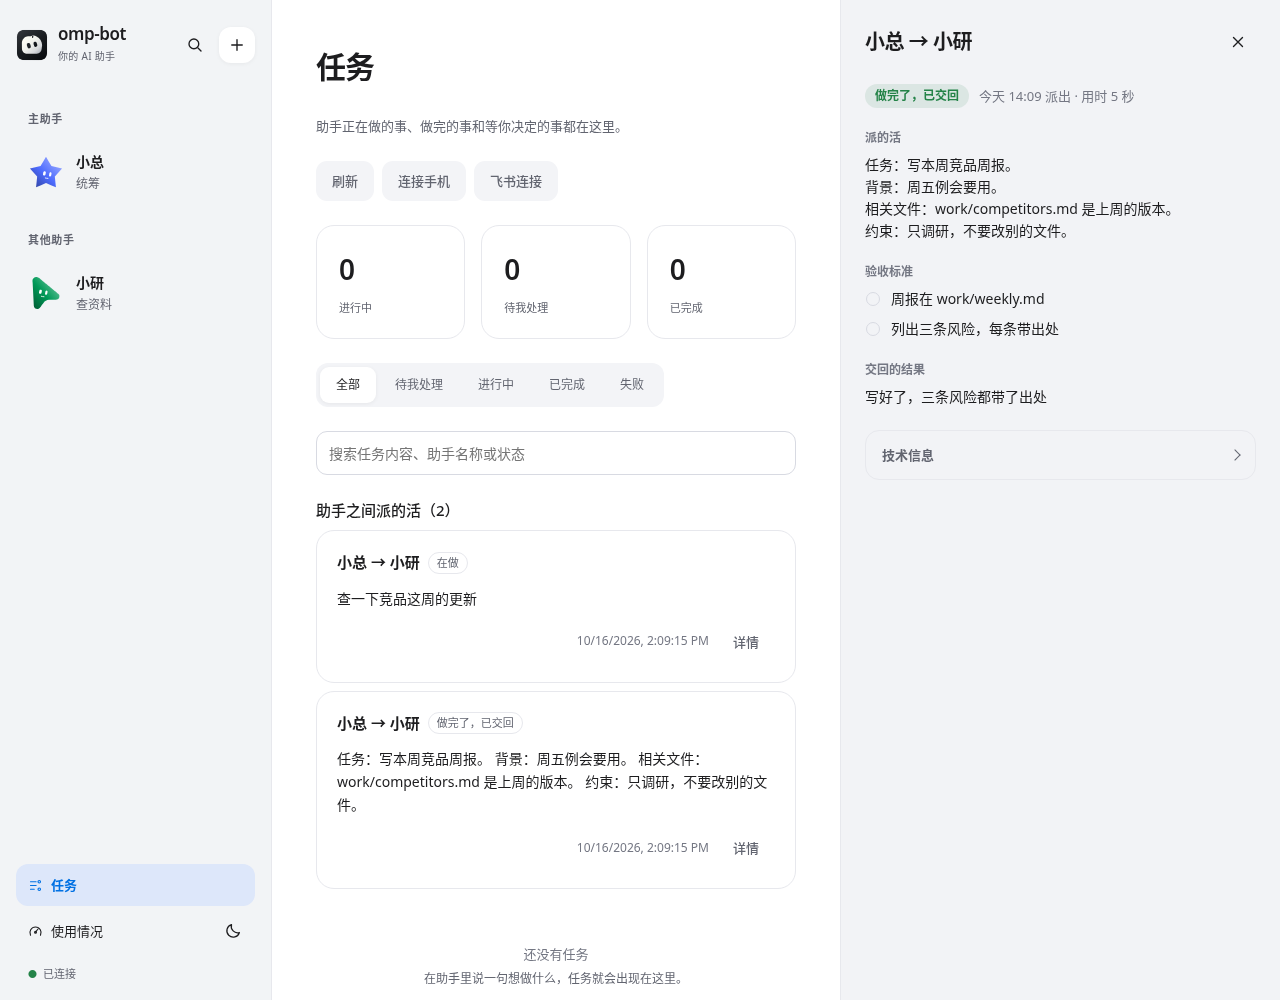
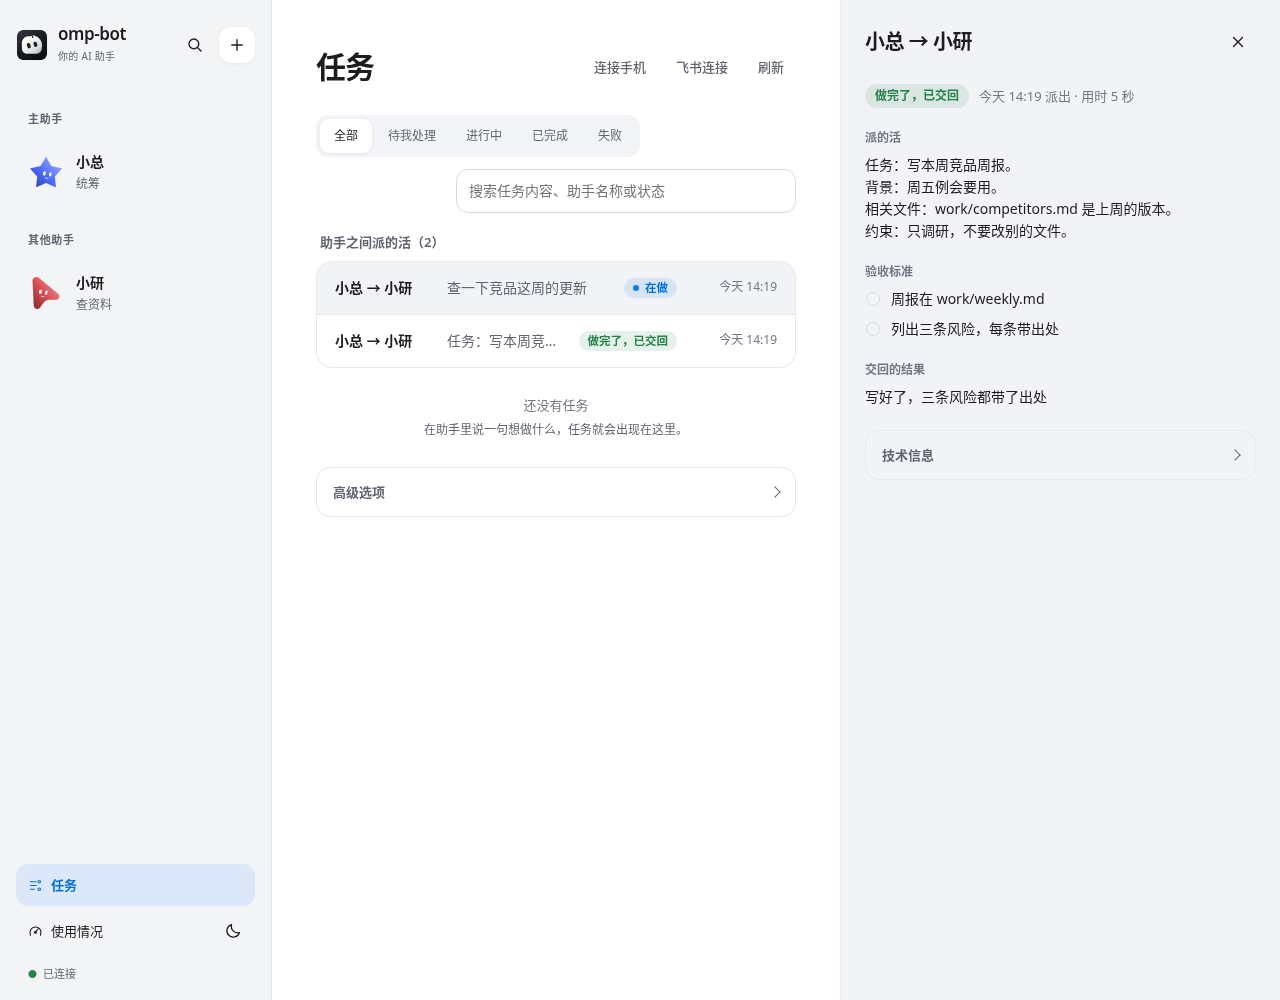
ui 3: 任务页（页签带数量和搜索同一行，任务改成一张卡里的紧凑行，整行可点，去掉大数字卡和说明；行为检查 13/13，变异 4/4）

diff --git a/web/workbench-panels.js b/web/workbench-panels.js
@@ -184,51 +184,46 @@ export function createPanels({ client, deps }) {
     const root = el("section", "wb-activity-view");
     const head = el("div", "wb-view-head");
     head.append(el("h1", null, "任务"));
-    root.append(head);
-    root.append(el("p", "ui-intro", "助手正在做的事、做完的事和等你决定的事都在这里。"));
-
     const toolbar = el("div", "ui-toolbar");
-    toolbar.append(button("btn ghost", "刷新", () => void draw()));
     toolbar.append(button("btn ghost", "连接手机", () => deps.openDrawer("连接手机", () => pairingSection())));
     toolbar.append(button("btn ghost", "飞书连接", () => deps.openDrawer("飞书连接", () => feishuSection())));
-    root.append(toolbar);
+    toolbar.append(button("btn ghost", "刷新", () => void draw()));
+    head.append(toolbar);
+    root.append(head);
 
     let filter = "all";
     let query = "";
 
-    // 计数直接复用页签的筛选规则，页签和数字不会对不上。
-    const metrics = el("div", "ui-metrics");
-    const metricValues = new Map();
-    for (const id of ["active", "attention", "completed"]) {
-      const [, label] = FILTERS.find(([filterId]) => filterId === id);
-      const metric = el("div", "ui-metric");
-      metric.dataset.metric = id;
-      const value = el("span", "ui-metric-value", "0");
-      metric.append(value, el("span", "ui-metric-label", label));
-      metricValues.set(id, value);
-      metrics.append(metric);
-    }
-    root.append(metrics);
-
+    // 页签上直接带数量，计数复用页签的筛选规则，数字和列表不会对不上。
+    const bar = el("div", "wb-task-bar");
     const tabs = el("div", "bt-tabs wb-tabs");
+    tabs.setAttribute("role", "tablist");
     const tabButtons = new Map();
+    const metricValues = new Map();
     for (const [id, label] of FILTERS) {
       const tab = button("bt-tab", label, () => { filter = id; paint(); });
       tab.setAttribute("role", "tab");
       tab.dataset.filter = id;
+      if (id !== "all") {
+        const count = el("span", "wb-tab-count", "0");
+        count.dataset.metric = id;
+        tab.append(count);
+        metricValues.set(id, count);
+      }
       tabButtons.set(id, tab);
       tabs.append(tab);
     }
-    root.append(tabs);
+    bar.append(tabs);
 
     const search = el("input", "bt-input wb-search");
     search.type = "search";
     search.placeholder = "搜索任务内容、助手名称或状态";
     search.setAttribute("aria-label", "搜索任务");
     search.oninput = () => { query = search.value.trim(); paint(); };
-    root.append(search);
+    bar.append(search);
+    root.append(bar);
 
-    const list = el("div", "wb-run-list");
+    const list = el("div", "wb-run-list wb-row-group");
     const approvals = el("div", "wb-approval-list");
     const empty = el("div", "bt-empty hidden");
     const emptyTitle = el("div", null, "还没有任务");
@@ -348,24 +343,18 @@ export function createPanels({ client, deps }) {
       delegationBox.classList.toggle("hidden", delegations.length === 0);
       if (!delegations.length) return;
       delegationBox.append(el("div", "wb-dock-label", `助手之间派的活（${delegations.length}）`));
-      for (const rec of delegations) delegationBox.append(delegationTile(rec));
+      const group = el("div", "wb-row-group");
+      for (const rec of delegations) group.append(delegationTile(rec));
+      delegationBox.append(group);
     }
 
     function delegationTile(rec) {
-      const tile = el("div", "wb-run-tile");
+      const who = `${rec.fromName || rec.fromBotId} → ${rec.targetName || rec.targetBotId}`;
+      const status = delegationStatus(rec);
+      const tile = compactRow({ who, text: rec.message, label: status.label, tone: delegationTone(rec), at: rec.createdAt },
+        () => void deps.openDrawer(who, () => delegationDetail(rec)));
       tile.dataset.delegationId = rec.id;
-      tile.dataset.state = delegationStatus(rec).key;
-      const top = el("div", "wb-run-top");
-      top.append(el("span", "wb-run-bot", `${rec.fromName || rec.fromBotId} → ${rec.targetName || rec.targetBotId}`));
-      top.append(el("span", "bt-state wb-run-state", delegationStatus(rec).label));
-      tile.append(top);
-      tile.append(el("div", "wb-run-text", String(rec.message || "").slice(0, 240) || "（没有内容）"));
-      const foot = el("div", "wb-run-foot");
-      foot.append(el("span", "wb-run-time", fmtTime(rec.createdAt)));
-      const actions = el("div", "bt-actions");
-      actions.append(button("btn ghost", "详情", () => void deps.openDrawer(`${rec.fromName || rec.fromBotId} → ${rec.targetName || rec.targetBotId}`, () => delegationDetail(rec))));
-      foot.append(actions);
-      tile.append(foot);
+      tile.dataset.state = status.key;
       return tile;
     }
 
@@ -408,7 +397,9 @@ export function createPanels({ client, deps }) {
       const all = client.all();
       for (const [id, value] of metricValues) {
         const predicate = FILTERS.find(([filterId]) => filterId === id)[2];
-        value.textContent = String(all.filter(predicate).length);
+        const n = all.filter(predicate).length;
+        value.textContent = String(n);
+        value.classList.toggle("is-zero", n === 0);
       }
       paintApprovals();
       const predicate = FILTERS.find(([id]) => id === filter)[2];
@@ -423,27 +414,35 @@ export function createPanels({ client, deps }) {
       announce(`${runs.length} 个任务`);
     }
 
+    /** 列表里的一行：谁、做什么、状态、时间。整行是一个按钮，点开详情。 */
+    function compactRow({ who, text, label, tone, at }, open) {
+      const tile = el("div", "wb-run-tile wb-row");
+      const main = el("button", "wb-row-main");
+      main.type = "button";
+      main.onclick = open;
+      const pill = el("span", "wb-pill wb-run-state", label);
+      pill.dataset.tone = tone;
+      main.append(
+        el("span", "wb-run-bot", who),
+        el("span", "wb-run-text", String(text || "").replace(/\s+/g, " ").trim().slice(0, 240) || "（没有内容）"),
+        pill,
+        el("span", "wb-run-time", fmtWhen(at)),
+      );
+      tile.append(main);
+      return tile;
+    }
+
     function runTile(run) {
       const bot = deps.botFor(run.botId);
-      const row = el("div", "wb-run-tile");
-      row.dataset.runId = run.id;
-      row.dataset.state = run.state;
-      const top = el("div", "wb-run-top");
-      top.append(el("span", "wb-run-bot", bot?.name || run.botId || "任务"));
-      top.append(el("span", "bt-state wb-run-state", runStateLabel(run.state)));
-      row.append(top);
-      row.append(el("div", "wb-run-text", String(run.text || "").slice(0, 240) || "（没有内容）"));
       // kind、scope、深度这些内部字段只留在任务详情里，主视图不出现。
-      const foot = el("div", "wb-run-foot");
-      foot.append(el("span", "wb-run-time", fmtTime(run.createdAt)));
-      const actions = el("div", "bt-actions");
-      actions.append(button("btn ghost", "详情", () => void deps.openDrawer(`${bot?.name || "助手"}的任务`, () => runDetail(run))));
+      const tile = compactRow({ who: bot?.name || run.botId || "任务", text: run.text, label: runStateLabel(run.state), tone: runTone(run.state), at: run.createdAt },
+        () => void deps.openDrawer(`${bot?.name || "助手"}的任务`, () => runDetail(run)));
+      tile.dataset.runId = run.id;
+      tile.dataset.state = run.state;
       if (isLiveRun(run.state)) {
-        actions.append(button("btn ghost danger", "停止", () => void client.cancel(run.id).then(() => { toast("已接受取消请求"); paint(); }).catch((error) => toast(error.message, true))));
+        tile.append(button("btn ghost danger wb-row-stop", "停止", () => void client.cancel(run.id).then(() => { toast("已接受取消请求"); paint(); }).catch((error) => toast(error.message, true))));
       }
-      foot.append(actions);
-      row.append(foot);
-      return row;
+      return tile;
     }
 
     async function draw() {

diff --git a/web/style.css b/web/style.css
@@ -664,3 +664,46 @@ button:focus-visible { outline-offset: 2px; }
 @media (prefers-reduced-motion: reduce) {
   .wb-pill[data-tone=live]::before { animation: none; }
 }
+
+/* ---- ui 3: 任务页。页签带数量、搜索同一行，任务是一张卡里的紧凑行，整行可点 ---- */
+.wb-activity-view { gap: 20px; }
+.wb-activity-view > .wb-view-head { margin-bottom: 4px; }
+.wb-view-head .ui-toolbar { gap: 6px; }
+.wb-view-head .ui-toolbar .btn { min-height: 32px; padding: 6px 12px; border-radius: 999px; font-size: 13px; background: transparent; color: var(--bt-ink-2); }
+@media (hover: hover) and (pointer: fine) {
+  .wb-view-head .ui-toolbar .btn:hover { background: var(--bt-hover); color: var(--bt-ink); }
+}
+.wb-task-bar { display: flex; align-items: center; gap: 12px; flex-wrap: wrap; }
+.wb-task-bar > .bt-tabs { margin: 0; padding: 4px; gap: 2px; background: var(--bt-bubble); border-radius: 12px; flex-wrap: nowrap; }
+.wb-task-bar .bt-tab { display: inline-flex; align-items: center; gap: 6px; padding: 7px 14px; }
+.wb-tab-count { min-width: 18px; padding: 0 5px; border-radius: 999px; font-size: 11px; line-height: 18px; text-align: center; font-variant-numeric: tabular-nums; color: var(--bt-ink-2); background: var(--bt-hover); }
+.wb-tab-count.is-zero { display: none; }
+.bt-tab[aria-selected=true] .wb-tab-count { background: var(--bt-bubble); color: var(--bt-ink); }
+.wb-tab-count[data-metric=attention]:not(.is-zero) { background: color-mix(in srgb, var(--wb-warn) 16%, transparent); color: var(--wb-warn); }
+.wb-task-bar > .wb-search { flex: 1 1 220px; width: auto; max-width: 340px; min-height: 40px; margin-left: auto; border-radius: 12px; }
+.wb-dock-label { font-size: 13px; line-height: 18px; font-weight: 600; color: var(--bt-ink-2); padding: 0 4px; }
+.wb-delegation-list { gap: 10px; }
+.wb-row-group { display: flex; flex-direction: column; gap: 0; border: 1px solid var(--bt-line); border-radius: 16px; background: var(--bt-card); overflow: hidden; }
+.wb-row-group:empty { display: none; }
+.wb-row-group > .wb-row + .wb-row { border-top: .5px solid var(--bt-line); }
+.wb-run-tile.wb-row { flex-direction: row; align-items: center; gap: 0; padding: 0; border: 0; border-radius: 0; background: none; }
+.wb-row-main { flex: 1; min-width: 0; display: grid; grid-template-columns: 96px minmax(0, 1fr) auto 84px; align-items: center; column-gap: 16px; min-height: 52px; padding: 10px 18px; border: 0; background: none; color: inherit; font: inherit; text-align: left; cursor: pointer; transition: background-color var(--dur-press) var(--ease-out); }
+.wb-row-main:focus-visible { outline: 2px solid var(--bt-accent); outline-offset: -2px; border-radius: 4px; }
+.wb-row-main:active { background: var(--bt-hover); }
+@media (hover: hover) and (pointer: fine) {
+  .wb-row-main:hover { background: color-mix(in srgb, var(--bt-hover) 60%, transparent); }
+}
+.wb-row .wb-run-bot { font-size: 14px; font-weight: 600; white-space: nowrap; overflow: hidden; text-overflow: ellipsis; }
+.wb-row .wb-run-text { font-size: 14px; line-height: 20px; color: var(--bt-ink-2); white-space: nowrap; overflow: hidden; text-overflow: ellipsis; }
+.wb-row .wb-run-state { justify-self: end; font-size: 11.5px; line-height: 16px; padding: 2px 9px; white-space: nowrap; }
+.wb-row .wb-run-time { margin: 0; justify-self: end; font-size: 12px; font-variant-numeric: tabular-nums; white-space: nowrap; }
+.wb-row-stop { flex: none; margin-right: 12px; min-height: 30px; padding: 4px 12px; border-radius: 999px; font-size: 12px; }
+@media (max-width: 720px) {
+  .wb-task-bar > .bt-tabs { overflow-x: auto; scrollbar-width: none; max-width: 100%; }
+  .wb-task-bar > .wb-search { max-width: none; margin-left: 0; flex-basis: 100%; }
+  .wb-row-main { grid-template-columns: minmax(0, 1fr) auto; grid-template-areas: "bot state" "text text" "time time"; row-gap: 4px; padding: 12px 14px; }
+  .wb-row .wb-run-bot { grid-area: bot; }
+  .wb-row .wb-run-state { grid-area: state; }
+  .wb-row .wb-run-text { grid-area: text; white-space: normal; display: -webkit-box; -webkit-line-clamp: 2; -webkit-box-orient: vertical; }
+  .wb-row .wb-run-time { grid-area: time; justify-self: start; }
+}

diff --git a/.scratch/ui-refresh/mutate-3.py b/.scratch/ui-refresh/mutate-3.py
@@ -1,0 +1,15 @@
+import subprocess, pathlib, os
+M=[("整行不可点","web/workbench-panels.js","      main.onclick = open;\n",""),
+   ("多行不压成一行","web/workbench-panels.js",'.replace(/\\s+/g, " ").trim()',''),
+   ("零数字照样显示","web/style.css",".wb-tab-count.is-zero { display: none; }",""),
+   ("停止冒泡到行","web/workbench-panels.js",'tile.append(button("btn ghost danger wb-row-stop"','main.append(button("btn ghost danger wb-row-stop"')]
+env=dict(os.environ)
+for name,f,a,b in M:
+  p=pathlib.Path(f); s=p.read_text(); assert a in s,name
+  p.write_text(s.replace(a,b,1))
+  try:
+    r=subprocess.run(["node","omp-bot/.scratch/ui-refresh/tasks-check.mjs"],cwd="/data",capture_output=True,text=True,timeout=120,env=env)
+    fails=[l for l in r.stdout.splitlines() if l.startswith("FAIL")]
+    print(("抓到" if r.returncode else "没抓到"), name, fails[:1] or r.stderr[-200:])
+  finally:
+    p.write_text(s)

diff --git a/.scratch/ui-refresh/plan.md b/.scratch/ui-refresh/plan.md
@@ -13,7 +13,7 @@
 
 - [x] 1 动效地基：曲线和时长变量；抽屉滑入、弹窗缩放淡入、提示进出、菜单从按钮处展开；悬停只给鼠标；减少动效时只留淡入淡出
 - [x] 2 详情抽屉：任务详情和派活详情改成"一句话标题 + 一行时间 + 内容 + 紧凑操作"，技术信息折叠
-- [ ] 3 任务页：卡片改紧凑行，统计并成一行，"详情"文字链接改成整行可点
+- [x] 3 任务页：卡片改紧凑行，统计并成一行，"详情"文字链接改成整行可点
 - [ ] 4 设置抽屉：说明文字瘦身，长说明收进折叠
 - [ ] 5 对话区：中文日期、头部权限标签归位、新消息进场
 - [ ] 6 暗色和手机检查
